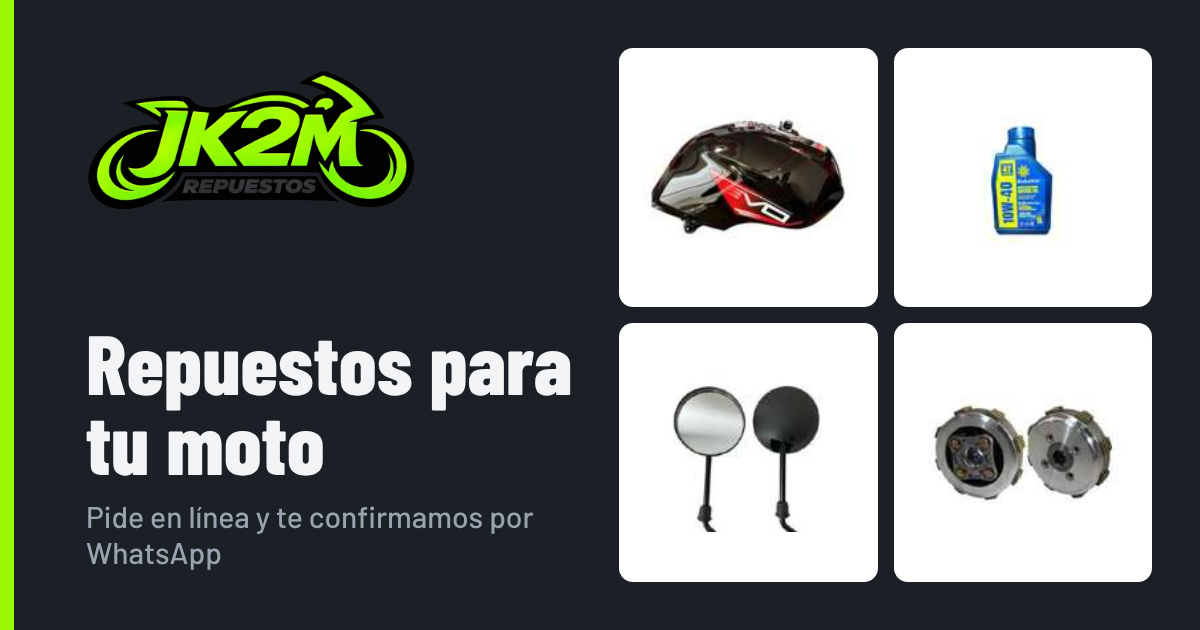
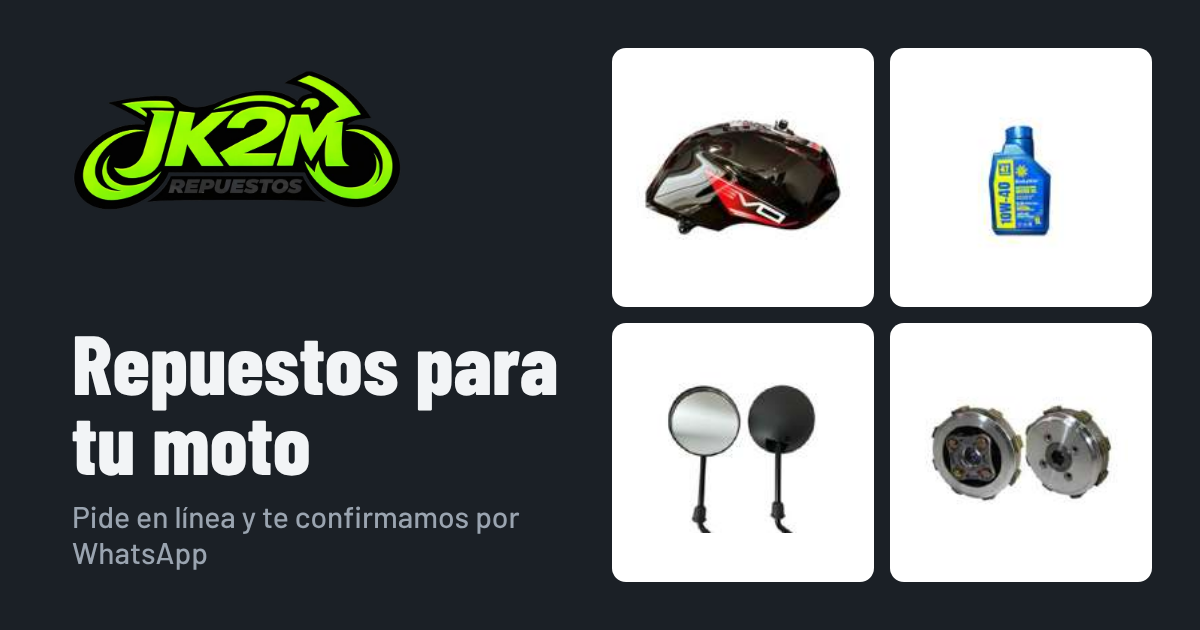
Quitar la franja verde decorativa del recuadro de inicio y de la imagen para compartir
Claude-Session: https://claude.ai/code/session_01WT8qBtqAXYpu4ezUDpC6PS

diff --git a/public/styles.css b/public/styles.css
@@ -66,7 +66,6 @@ header{position:sticky;top:0;z-index:5;background:rgba(27,32,38,.96);backdrop-fi
 main{max-width:1200px;margin:0 auto;padding:22px 20px 60px;}
 
 .intro{display:grid;grid-template-columns:minmax(0,1.1fr) minmax(0,1fr);gap:28px;align-items:center;background:var(--panel);border:1px solid var(--line);border-radius:14px;padding:28px 30px;margin-bottom:28px;position:relative;overflow:hidden;}
-.intro::after{content:'';position:absolute;left:0;top:0;bottom:0;width:6px;background:var(--accent);}
 .intro h1{font-size:44px;font-weight:800;margin:0 0 10px;}
 .intro p{color:var(--muted);margin:0;font-size:17px;max-width:46ch;}
 .steps{list-style:none;margin:0;padding:0;display:grid;gap:10px;counter-reset:paso;}
@@ -189,7 +188,7 @@ footer img{height:32px;width:auto;}
   .acct-label{max-width:110px;overflow:hidden;text-overflow:ellipsis;white-space:nowrap;}
   .chips{padding:0 14px 10px;}
   main{padding:16px 14px 48px;}
-  .intro{padding:20px 20px 20px 24px;margin-bottom:22px;}
+  .intro{padding:20px;margin-bottom:22px;}
   .intro h1{font-size:32px;}
   .intro h1{margin-bottom:14px;}
   .intro p{display:none;}
